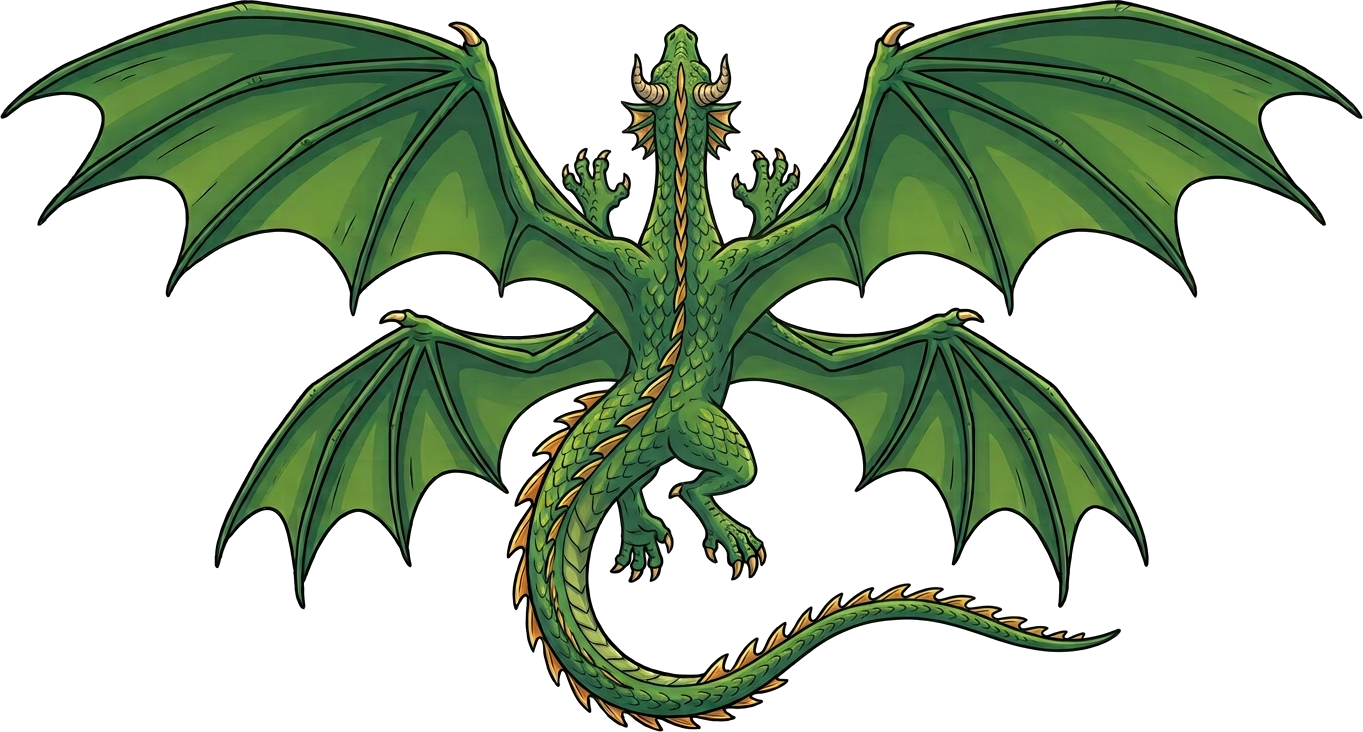
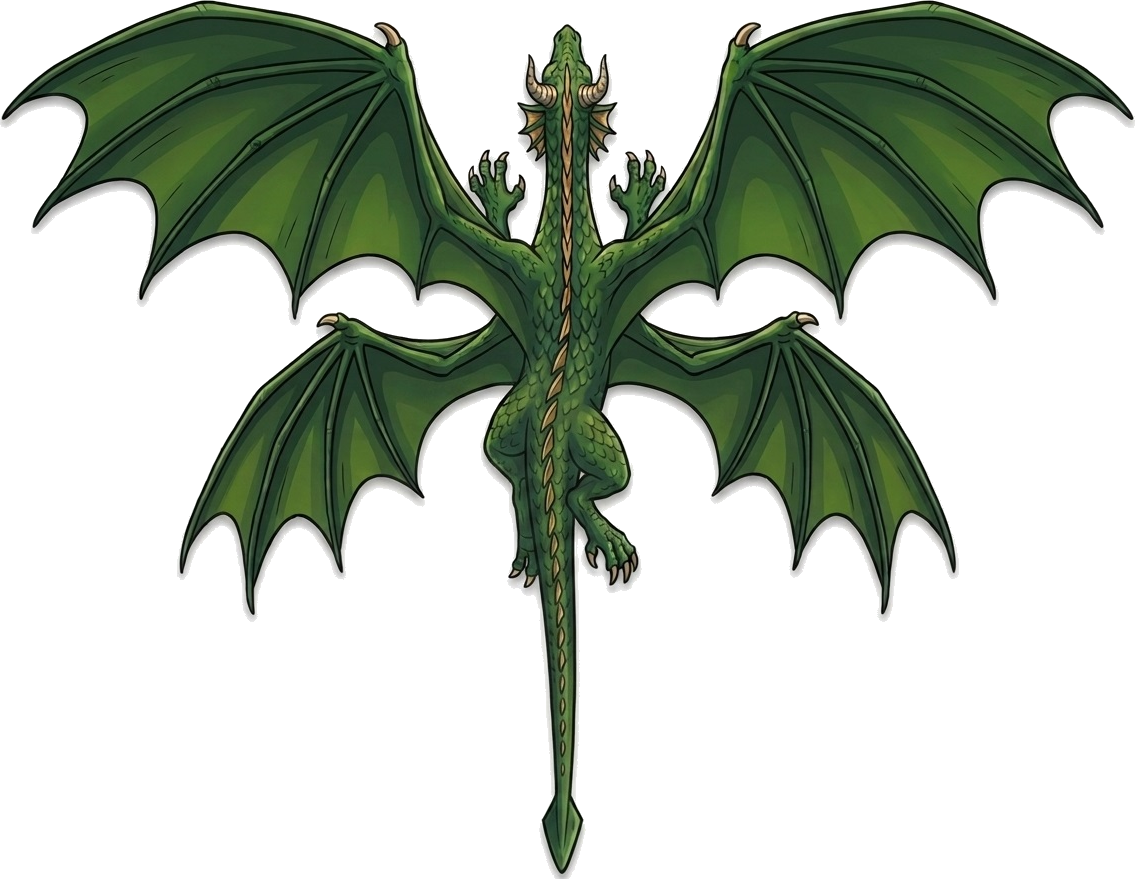
Give each Baby Dragon evolution stage its own colorway; scale Fox harvest count with merges
Base dragon now uses a straight-tailed green variant (swapped in place of
the old curled-tail art), Empowered uses yellow, and Tenacious randomly
but stably picks between black & red and orange & black per equipped
instance (seeded by player+pet+size so it never flickers on re-render).

Fox's auto-harvest now scales with evolution stage instead of always
harvesting exactly one crop: base 1, Empowered 2, Tenacious 3 - one
extra crop per merge, mirrored in the tooltip/guide text.

diff --git a/client/src/components/PetIcon.tsx b/client/src/components/PetIcon.tsx
@@ -110,14 +110,32 @@ function PhoenixChickTopImage({ size, moving }: { size: number; moving: boolean 
   );
 }
 
-/** The Baby Dragon as seen from above while roaming the garden — real artwork, single pose
- *  (no moving/stationary distinction like the Phoenix Chick, since only one reference image
- *  exists for it). No portrait glyph exists yet, so the front-facing shop/inventory tile still
- *  falls back to the plain emoji. */
-function BabyDragonTopImage({ size }: { size: number }) {
+/** Simple deterministic string hash (djb2) — used to pick a stable-but-varied cosmetic choice
+ *  (which Tenacious color an equipped dragon gets) without needing any server-side state for
+ *  something that's purely visual. Same seed always yields the same pick, so it never flickers
+ *  across re-renders or reconnects; different equipped instances land on either color roughly
+ *  50/50. */
+function hashString(s: string): number {
+  let h = 5381;
+  for (let i = 0; i < s.length; i++) h = (h * 33) ^ s.charCodeAt(i);
+  return h >>> 0;
+}
+
+const TENACIOUS_DRAGON_VARIANTS = [
+  "/images/pets/baby-dragon-top-tenacious-black-red.png",
+  "/images/pets/baby-dragon-top-tenacious-orange-black.png",
+];
+
+/** The Baby Dragon as seen from above while roaming the garden — real artwork, one image per
+ *  evolution stage: base is green, Empowered is yellow, Tenacious is randomly (but stably, see
+ *  hashString) either the black & red or orange & black colorway. */
+function BabyDragonTopImage({ stage, seed, size }: { stage: number; seed: string; size: number }) {
+  let src = "/images/pets/baby-dragon-top.png";
+  if (stage === 1) src = "/images/pets/baby-dragon-top-empowered.png";
+  else if (stage >= 2) src = TENACIOUS_DRAGON_VARIANTS[hashString(seed) % TENACIOUS_DRAGON_VARIANTS.length];
   return (
     <img
-      src="/images/pets/baby-dragon-top.png"
+      src={src}
       alt=""
       aria-hidden="true"
       style={{ width: size, height: size, objectFit: "contain", display: "block" }}
@@ -130,6 +148,7 @@ export default function PetIcon({
   size = 28,
   variant = "portrait",
   moving = false,
+  seed,
 }: {
   pet: IconPet;
   size?: number;
@@ -139,13 +158,18 @@ export default function PetIcon({
   variant?: "portrait" | "top";
   /** "top" variant only — swaps to a warmer walking pose while the pet is mid-move. */
   moving?: boolean;
+  /** Identifies this specific equipped instance (e.g. `${playerId}:${petId}:${size}`) so a
+   *  cosmetic random pick (which Tenacious Dragon colorway) stays stable for that instance
+   *  instead of re-rolling on every render. Falls back to the pet id, which is fine for callers
+   *  that don't need per-instance variety. */
+  seed?: string;
 }) {
-  const { baseId } = evolutionInfo(pet.id);
+  const { baseId, stage } = evolutionInfo(pet.id);
   if (baseId === "phoenix_chick") {
     return variant === "top" ? <PhoenixChickTopImage size={size} moving={moving} /> : <PhoenixChickGlyph size={size} />;
   }
   if (baseId === "baby_dragon" && variant === "top") {
-    return <BabyDragonTopImage size={size} />;
+    return <BabyDragonTopImage stage={stage} seed={seed ?? pet.id} size={size} />;
   }
   return (
     <span style={{ fontSize: size, lineHeight: 1 }} role="img" aria-label={pet.name}>

diff --git a/server/src/rooms.ts b/server/src/rooms.ts
@@ -480,12 +480,14 @@ export function tickDragonInstaGrow(): DragonProc[] {
 
 const FOX_PROC_INTERVAL_MS = 60 * 1000;
 
-/** Every equipped Fox (any evolution stage) auto-harvests one of its owner's ready-to-collect
- *  plantings — always exactly one, picking whichever has been sitting ready longest — on its own
- *  independent 60s cooldown, the same petProcAt bookkeeping and equip-timing protection
- *  tickDragonInstaGrow uses. Just calls the real harvest() so mutations/persistent-regrow/quest
- *  progress all happen exactly as if the player had tapped it themselves. Returns the rooms that
- *  actually changed, so the caller knows which ones to broadcast. */
+/** Every equipped Fox (any evolution stage) auto-harvests some of its owner's ready-to-collect
+ *  plantings on its own independent 60s cooldown, the same petProcAt bookkeeping and
+ *  equip-timing protection tickDragonInstaGrow uses. Harvest count scales with evolution stage —
+ *  base Fox harvests 1, Empowered 2, Tenacious 3 (one extra per merge) — picking whichever
+ *  plantings have been sitting ready longest. Just calls the real harvest() so
+ *  mutations/persistent-regrow/quest progress all happen exactly as if the player had tapped it
+ *  themselves. Returns the rooms that actually changed, so the caller knows which ones to
+ *  broadcast. */
 export function tickFoxAutoHarvest(): RoomState[] {
   const now = Date.now();
   const changed: RoomState[] = [];
@@ -494,7 +496,8 @@ export function tickFoxAutoHarvest(): RoomState[] {
     for (const player of room.players) {
       for (const key of player.petsEquipped) {
         const { petId } = parseSlotKey(key);
-        if (evolutionInfo(petId).baseId !== "fox") continue;
+        const { baseId, stage } = evolutionInfo(petId);
+        if (baseId !== "fox") continue;
         const nextAt = player.petProcAt[key];
         if (nextAt === undefined) {
           player.petProcAt[key] = now + FOX_PROC_INTERVAL_MS;
@@ -502,8 +505,12 @@ export function tickFoxAutoHarvest(): RoomState[] {
         }
         if (now < nextAt) continue;
         player.petProcAt[key] = now + FOX_PROC_INTERVAL_MS;
-        const target = player.plantings.filter((p) => now >= p.readyAt).sort((a, b) => a.readyAt - b.readyAt)[0];
-        if (target) {
+        const harvestCount = stage + 1;
+        const targets = player.plantings
+          .filter((p) => now >= p.readyAt)
+          .sort((a, b) => a.readyAt - b.readyAt)
+          .slice(0, harvestCount);
+        for (const target of targets) {
           harvest(room, player, target.id);
           roomChanged = true;
         }

diff --git a/client/src/petData.ts b/client/src/petData.ts
@@ -9,9 +9,10 @@ export type PetEffect =
   | { type: "growSpeed"; value: number }
   | { type: "sellBonus"; value: number }
   | { type: "incubatorSpeed"; value: number }
-  /** Fox only — the ability itself (harvest 1 ready crop every 60s, always exactly one,
-   *  regardless of evolution/size) is hardcoded server-side, not scaled by `value`. The field
-   *  only exists so Fox's Empowered/Tenacious forms still fit the Pet/BasePet shape uniformly. */
+  /** Fox only — the ability itself (harvest N ready crops every 60s, where N = evolution stage +
+   *  1: base 1, Empowered 2, Tenacious 3) is hardcoded server-side by stage, not scaled by
+   *  `value`. The field only exists so Fox's Empowered/Tenacious forms still fit the
+   *  Pet/BasePet shape uniformly. */
   | { type: "autoHarvest"; value: number };
 
 export interface Pet {
@@ -254,7 +255,10 @@ export const PET_EFFECT_LABELS: Record<PetEffect["type"], string> = {
  *  power is never a mystery — "+N% Grow Speed" / "+N% Sell Price" / "+N% Incubator Speed" for the
  *  percentage-based effects, or a fixed description for Fox's flat "once every 60s" ability. */
 export function formatPetEffect(pet: Pet, size: PetSize): string {
-  if (pet.effect.type === "autoHarvest") return "Harvests 1 ready crop every 60s";
+  if (pet.effect.type === "autoHarvest") {
+    const count = evolutionInfo(pet.id).stage + 1;
+    return `Harvests ${count} ready crop${count === 1 ? "" : "s"} every 60s`;
+  }
   const pct = Math.round(petEffectValue(pet, size) * 1000) / 10;
   const label = PET_EFFECT_LABELS[pet.effect.type];
   return `+${pct}% ${label}`;
@@ -272,6 +276,9 @@ export function petSpecialAbility(petId: string): string | undefined {
   if (baseId === "baby_dragon") {
     return "While equipped: instantly finishes growing one crop every 60 seconds. Each equipped Baby Dragon has its own independent timer.";
   }
+  if (baseId === "fox") {
+    return "While equipped: auto-harvests a ready crop every 60 seconds — one extra crop per merge (1 base, 2 Empowered, 3 Tenacious). Each equipped Fox has its own independent timer.";
+  }
   return undefined;
 }
 
@@ -280,6 +287,7 @@ export function petSpecialAbilityBadge(petId: string): string | undefined {
   const { baseId } = evolutionInfo(petId);
   if (baseId === "unicorn") return "🌈 Rain bonus";
   if (baseId === "baby_dragon") return "⚡ Insta-grow";
+  if (baseId === "fox") return "🌾 Auto-harvest";
   return undefined;
 }
 

diff --git a/client/src/components/RoamingPets.tsx b/client/src/components/RoamingPets.tsx
@@ -285,7 +285,13 @@ export default function RoamingPets({ player }: { player: PlayerState }) {
             style={{ transform: `translate(${pos.x}px, ${pos.y}px)${rotate}` }}
             title={p.pet.name}
           >
-            <PetIcon pet={p.pet} size={roamingIconSize(p.petId, p.size)} variant="top" moving={moving[i] ?? false} />
+            <PetIcon
+              pet={p.pet}
+              size={roamingIconSize(p.petId, p.size)}
+              variant="top"
+              moving={moving[i] ?? false}
+              seed={`${player.id}:${p.petId}:${p.size}`}
+            />
           </span>
         );
       })}
